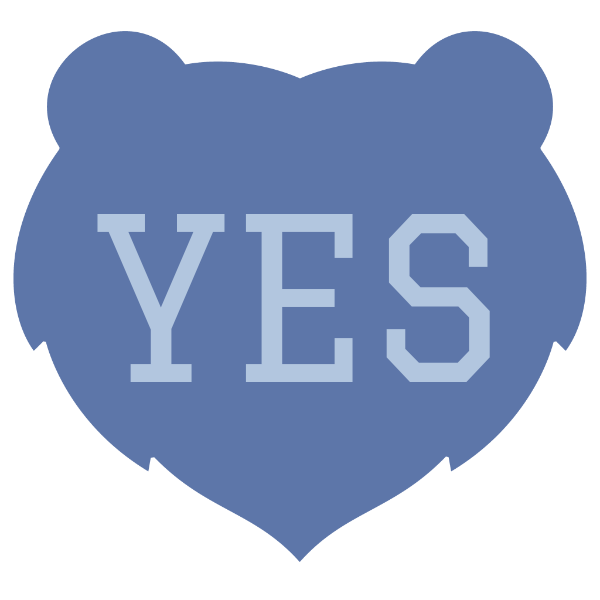
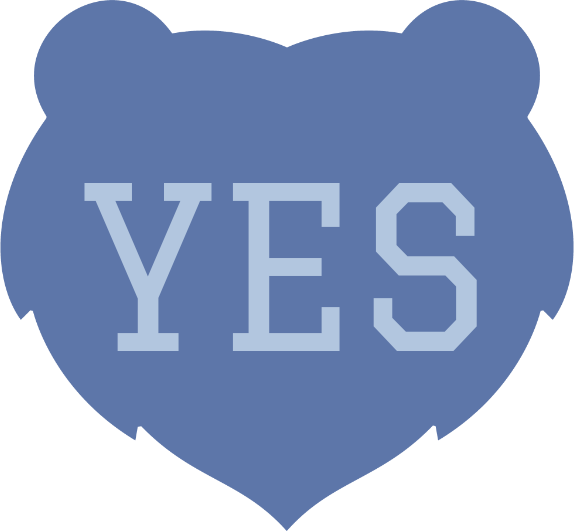
Added Yes/No Images

diff --git a/index.html b/index.html
@@ -19,7 +19,7 @@
 
 	<div class="container">
 		
-		<img src="yes.png" width="400px" alt="Yes" />
+		<img src="yes.png" width="574px" alt="Yes" />
 		
 	</div>
 	
